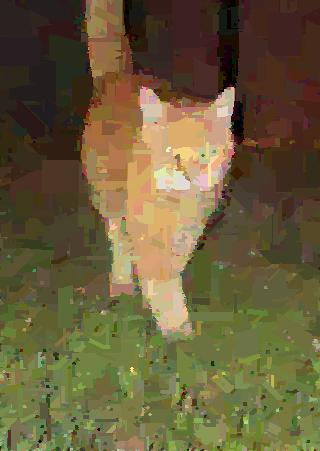
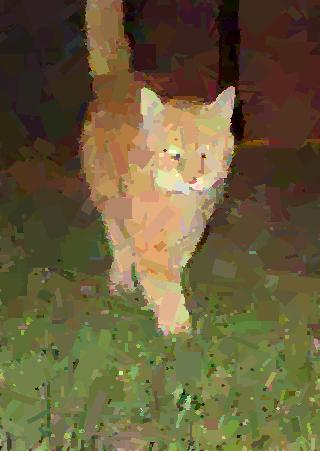
Fixed bug where most rectangles were not rectangular

diff --git a/src/main/java/org/yourcompany/yourproject/Rect.java b/src/main/java/org/yourcompany/yourproject/Rect.java
@@ -1,15 +1,13 @@
 package org.yourcompany.yourproject;
 
 import java.awt.Color;
-import java.awt.Graphics;
-import java.awt.Graphics2D;
 import java.awt.Point;
 import java.awt.Polygon;
 import java.awt.image.BufferedImage;
 
 public final class Rect {
 
-    static MyCanvas mainPanel;
+    static MyCanvas mainCanvas;
     static int screenWidth;
     static int screenHeight;
     
@@ -23,7 +21,7 @@ public final class Rect {
     final int blue;
 
     Polygon intersectionPoly;
-    boolean insidePanel = true;
+    boolean insideCanvas = true;
 
     double score = Math.PI; // pi here is very arbitrary
 
@@ -43,19 +41,7 @@ public final class Rect {
         green = g;
         blue = b;
 
-        intersectionPoly = getPanelIntersection();
-    }
-
-    public void draw(Graphics g){
-
-        Graphics2D g2d = (Graphics2D) g.create();
-        g2d.setColor(new Color(red,green,blue));
-
-        g2d.rotate(rotation, xPos, yPos);
-        g2d.fillRect(xPos - width/2, yPos - height/2, width, height);
-
-        g2d.dispose();
-
+        intersectionPoly = getCanvasIntersection();
     }
 
     public double getScore(BufferedImage targetImage, double[][] baseScoreArr){
@@ -84,9 +70,9 @@ public final class Rect {
     }
 
     public int compareTo(Rect other){
-        //double diff = -(mainPanel.scoreLocal(this)-mainPanel.scoreLocal(other));
-        BufferedImage targetImage = mainPanel.targetImage;
-        double[][] baseScoreArr = mainPanel.baseScoreArr;
+        //double diff = -(mainCanvas.scoreLocal(this)-mainCanvas.scoreLocal(other));
+        BufferedImage targetImage = mainCanvas.targetImage;
+        double[][] baseScoreArr = mainCanvas.baseScoreArr;
         double diff = -(this.getScore(targetImage, baseScoreArr)-other.getScore(targetImage, baseScoreArr));
         return (int) Math.signum(diff);
     }
@@ -137,8 +123,8 @@ public final class Rect {
         return new Rect(x, y, w, h, rot, r, g, b);
     }
 
-    public static void setMainPanel(MyCanvas p){
-        Rect.mainPanel = p;
+    public static void setmainCanvas(MyCanvas p){
+        Rect.mainCanvas = p;
     }
 
     public static void setScreenSize(int screenWidth_, int screenHeight_){
@@ -147,7 +133,7 @@ public final class Rect {
     }
 
 
-    public Polygon getPanelIntersection(){
+    public Polygon getCanvasIntersection(){
 
         double cos = Math.cos(rotation);
         double sin = Math.sin(rotation);
@@ -165,17 +151,17 @@ public final class Rect {
         Polygon rectPoly = new Polygon(xPointsRect, yPointsRect, 4);
 
 
-        int[] xPointsPanel = {0,0,screenWidth,screenWidth};
-        int[] yPointsPanel = {0,screenHeight,screenHeight,0};
-        Polygon panelPoly = new Polygon(xPointsPanel,yPointsPanel,4);
+        int[] xPointsCanvas = {0,0,screenWidth,screenWidth};
+        int[] yPointsCanvas = {0,screenHeight,screenHeight,0};
+        Polygon canvasPoly = new Polygon(xPointsCanvas,yPointsCanvas,4);
 
         Polygon polyUnion;
         
         if (rectPoly.intersects(0, 0, screenWidth, screenHeight)){
-            polyUnion = PolyStuff.polygonUnion(rectPoly, panelPoly);
+            polyUnion = PolyStuff.polygonUnion(rectPoly, canvasPoly);
         } else {
             polyUnion = rectPoly;
-            insidePanel = false;
+            insideCanvas = false;
         }
         
         return polyUnion;

diff --git a/src/main/java/org/yourcompany/yourproject/PicGen2.java b/src/main/java/org/yourcompany/yourproject/PicGen2.java
@@ -11,13 +11,13 @@ import java.util.ArrayList;
 
 import javax.imageio.ImageIO;
 
-public class PicGen2 {
+public final class PicGen2 {
 
     String targetImgSrc = "images/cat.jpg";
     double imgDownScale = 1;
     BufferedImage targetImg;
 
-    MyCanvas mainPanel;
+    MyCanvas mainCanvas;
 
     ArrayList<Rect> contestants = new ArrayList<>();
     ArrayList<Rect> rectList = new ArrayList<>();
@@ -32,26 +32,32 @@ public class PicGen2 {
     public PicGen2(){
         targetImg = scaleImg(getImage(targetImgSrc), imgDownScale);
 
-        mainPanel = new MyCanvas(targetImg);
-        Rect.setMainPanel(mainPanel);
+        mainCanvas = new MyCanvas(targetImg);
+        Rect.setmainCanvas(mainCanvas);
         Rect.setScreenSize(targetImg.getWidth(), targetImg.getHeight());
 
         screen = new ScreenStuff(targetImg.getWidth(), targetImg.getHeight());
 
+        //test();
         run();
 
-    }     
+    }
+
+    public void test(){
+        //mainCanvas.addToCurrentImage(Rect.random());
+        //screen.setCanvasImage(mainCanvas.currentImage);
+    }
 
     public void run(){
         outerloop:
         for (int rectIndex = 0; rectIndex < rectAmt; rectIndex++) {
-            mainPanel.updateBaseScoreArr();
+            mainCanvas.updateBaseScoreArr();
 
             // Repopulate contestants with random rects
             contestants.clear();
             while (contestants.size() < genSize) {
                 Rect r = Rect.random();
-                if(r.insidePanel)
+                if(r.insideCanvas)
                     contestants.add(r);
             }
             
@@ -72,9 +78,9 @@ public class PicGen2 {
             }
 
             rectList.add(contestants.get(0));
-            mainPanel.addToCurrentImage(contestants.get(0));
+            mainCanvas.addToCurrentImage(contestants.get(0));
 
-            screen.setCanvasImage(mainPanel.currentImage);
+            screen.setCanvasImage(mainCanvas.currentImage);
             
         }
 
@@ -82,7 +88,7 @@ public class PicGen2 {
 
         System.out.println("done");
 
-        BufferedImage img = mainPanel.currentImage;
+        BufferedImage img = mainCanvas.currentImage;
 
         try {
             File outputfile = new File("outImage.jpg");
@@ -106,7 +112,7 @@ public class PicGen2 {
         // have remaining produce as much to refill
         repopulate();
         Rect bestRect = contestants.get(0);
-        double score = bestRect.getScore(targetImg, mainPanel.baseScoreArr);
+        double score = bestRect.getScore(targetImg, mainCanvas.baseScoreArr);
 
         // repeat
         return score;

diff --git a/src/main/java/org/yourcompany/yourproject/PolyStuff.java b/src/main/java/org/yourcompany/yourproject/PolyStuff.java
@@ -142,9 +142,9 @@ public class PolyStuff {
             // if slope is -, the line goes down going counter clockwise vise versa, if 0, horizontal
             int yPtA = poly.ypoints[i];
             int yPtB = poly.ypoints[(i+1)%poly.npoints];
-            int slope = yPtA - yPtB;
+            int direction = yPtA - yPtB;
 
-            tbds[i] = new TBD(Math.min(yPtA, yPtB), Math.max(yPtA, yPtB), slope < 0);
+            tbds[i] = new TBD(Math.min(yPtA, yPtB), Math.max(yPtA, yPtB), direction < 0);
         }
         return tbds;
     }
@@ -164,13 +164,9 @@ public class PolyStuff {
                 int xDiff = poly.xpoints[i]-poly.xpoints[(i+1)%poly.npoints];
                 int yDiff = poly.ypoints[i]-poly.ypoints[(i+1)%poly.npoints];
 
-                if (yDiff == 0) {
-                    System.out.println(Integer.toString(top) + " : " + Integer.toString(bottom));
-                }
+                double lineSlope = (double)xDiff/yDiff;
 
-                double lineSlope = xDiff/yDiff;
-
-                Point linePt; 
+                Point linePt;
                 if (poly.ypoints[i] < poly.ypoints[(i+1)%poly.npoints]) {
                     linePt = new Point(poly.xpoints[i], poly.ypoints[i]);
                 } else {

diff --git a/src/main/java/org/yourcompany/yourproject/ScreenStuff.java b/src/main/java/org/yourcompany/yourproject/ScreenStuff.java
@@ -44,7 +44,6 @@ public class ScreenStuff extends JPanel{
 
         g.drawImage(canvasImage, 0, 0, this);
 
-        System.out.println("draw");
     }
 
     private static class Closer extends java.awt.event.WindowAdapter 
